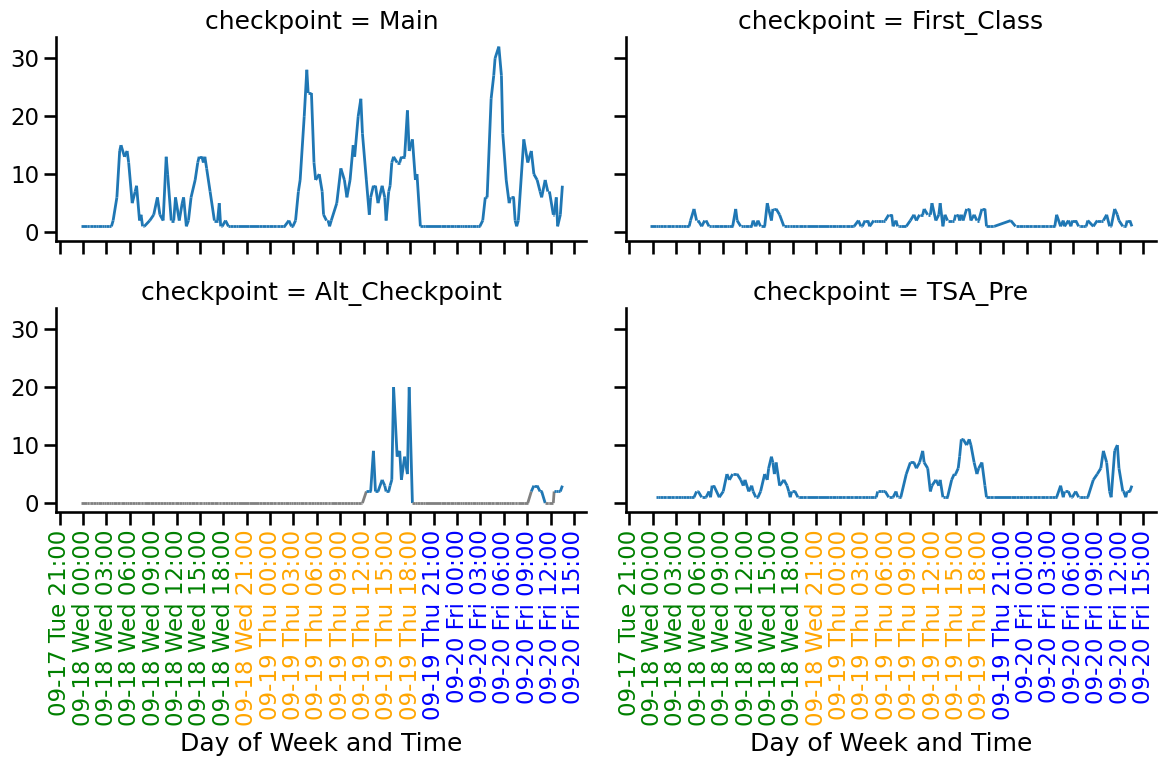
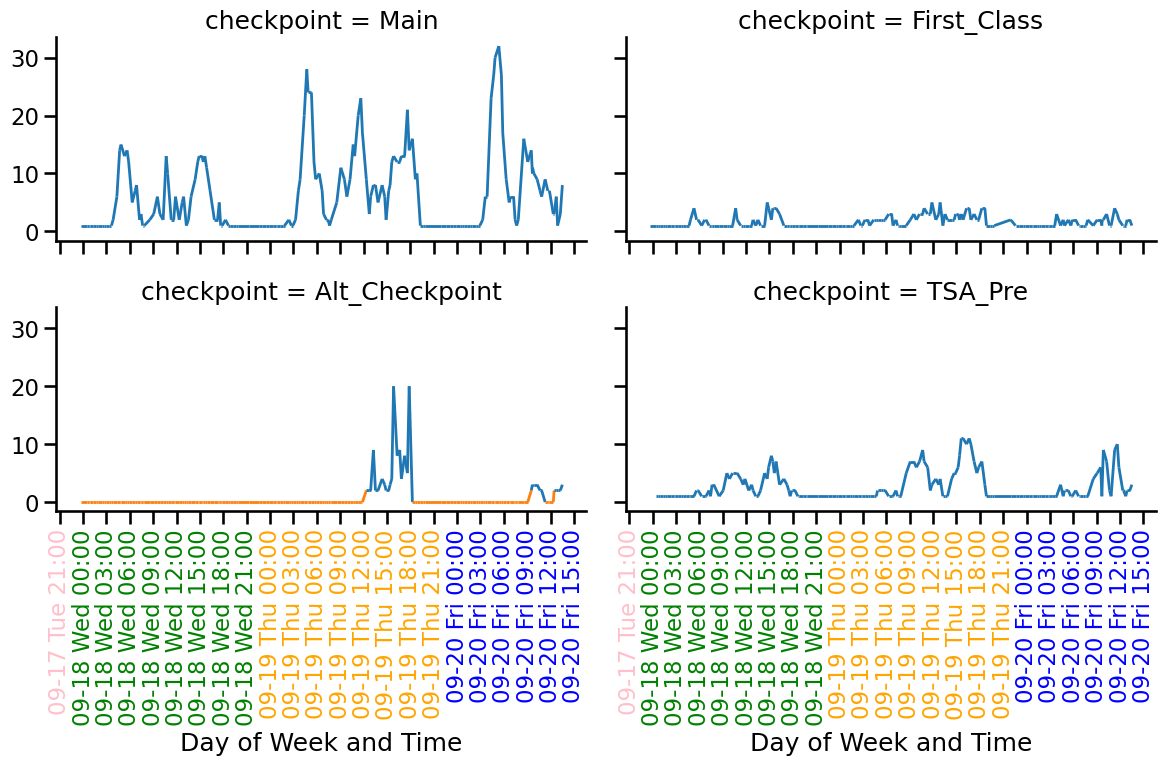
fix xtick label color

diff --git a/main.py b/main.py
@@ -88,7 +88,7 @@ def plot_with_segmented_colors(ax, x, y):
     segments = np.concatenate([points[:-1], points[1:]], axis=1)
 
     # Define the colors based on whether the values are zero
-    colors = ['gray' if y_val == 0 else '#1f77b4' for y_val in y]
+    colors = ['#ff7f0e' if y_val == 0 else '#1f77b4' for y_val in y]
 
     # Create a LineCollection, passing the segments and colors
     lc = LineCollection(segments, colors=colors, linewidth=2)
@@ -131,7 +131,7 @@ def plot_wait_time():
         tick_labels = ax.get_xticklabels()
         # Update the tick label colors based on the day of the week
         for label in tick_labels:
-            date = mdates.num2date(label.get_position())[0]  # Convert tick position to datetime
+            date = mdates.num2date(label.get_position(), tz=us_eastern)[0]  # Convert tick position to datetime
             label.set_color(get_day_color(date))  # Set the color based on the day
 
     # Add a common title and adjust layout

diff --git a/README.md b/README.md
@@ -4,7 +4,7 @@ Pittsburgh International Airport (PIT) is a major airport serving the greater Pi
 
 The goal of this project is to collect and analyze security line wait time data at PIT, giving the general public an idea of what to expect for security wait times for passengers with different levels of access through the checkpoint. *Based on the author prior experience and opinion, the actual wait time from waiting in line, ID check, and security screening of personal and carry-on items tend to be longer than the posted wait time.*
 
-This is an ongoing project with limited amount of data. The pipeline is scheduled to run every 15 minute or whenever github actions have resources available to trigger the job. Sample data are plotted below by checkpoint location. When the line color is gray, it means that the checkpoint is closed or no information available.
+This is an ongoing project with limited amount of data. The pipeline is scheduled to run every 15 minute or whenever github actions have resources available to trigger the job. Sample data are plotted below by checkpoint location. When the line color is orange, it means that the checkpoint is closed or no information available.
 
 ![](wait_time_at_pit.png "Title")
 
